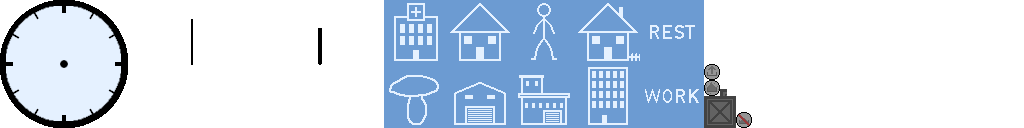
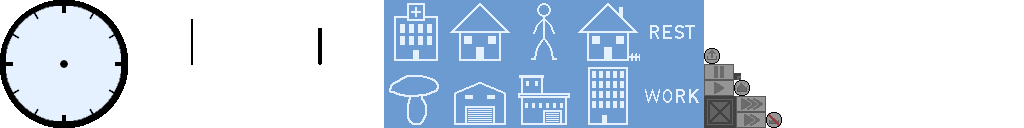
tick speed buttons

Changed region(s): [[0.6875, 0.375, 0.7812, 1.0]]

diff --git a/core/src/com/boxhead/builder/ui/UI.java b/core/src/com/boxhead/builder/ui/UI.java
@@ -5,6 +5,7 @@ import com.badlogic.gdx.graphics.Color;
 import com.badlogic.gdx.graphics.g2d.BitmapFont;
 import com.badlogic.gdx.graphics.g2d.SpriteBatch;
 import com.badlogic.gdx.graphics.g2d.TextureRegion;
+import com.boxhead.builder.Logic;
 import com.boxhead.builder.Textures;
 import com.boxhead.builder.World;
 import com.boxhead.builder.game_objects.Building;
@@ -26,8 +27,9 @@ public class UI {
 
     private static final List<Set<UIElement>> layers = new ArrayList<>();
 
-    private static Button buildingButton, npcButton, homeButton, workplaceButton, serviceButton, storageButton, constructionOfficeButton, workButton, restButton;
-    private static ButtonGroup buildingMenu, mainMenu;
+    private static Button buildingButton, npcButton, homeButton, workplaceButton, serviceButton, storageButton, constructionOfficeButton, workButton, restButton,
+                          pauseButton, playButton, x2Button, x3Button;
+    private static ButtonGroup buildingMenu, mainMenu, timeButtons;
 
     private static NPCStatWindow NPCStatWindow;
     private static BuildingStatWindow buildingStatWindow;
@@ -36,6 +38,7 @@ public class UI {
     private static Clock clock;
 
     public static void init() {
+        //region mainMenu
         buildingButton = new Button(Textures.get(Textures.Ui.HOUSE), new Vector2i(10, 10),
                 () -> buildingMenu.setVisible(!buildingMenu.isVisible()));
         npcButton = new Button(Textures.get(Textures.Ui.NPC), new Vector2i(84, 10),
@@ -48,7 +51,9 @@ public class UI {
                 () -> World.setTime(25170));
         restButton = new Button(Textures.get(Textures.Ui.REST), new Vector2i(232, 10),
                 () -> World.setTime(57570));
+        //endregion
 
+        //region buildingMenu
         homeButton = new Button(Textures.get(Textures.Ui.HOME), new Vector2i(10, 84),
                 () -> {
                     Buildings.toBuildingMode(Buildings.Type.DEFAULT_RESIDENTIAL_BUILDING);
@@ -74,22 +79,47 @@ public class UI {
                     Buildings.toBuildingMode(Buildings.Type.CONSTRUCTION_OFFICE);
                     buildingMenu.setVisible(false);
                 });
+        //endregion
+
+        TextureRegion clockTexture = Textures.get(Textures.Ui.CLOCK_FACE);
+        clock = new Clock(new Vector2i(Gdx.graphics.getWidth() - clockTexture.getRegionWidth() - 10,
+                Gdx.graphics.getHeight() - clockTexture.getRegionHeight() - 10));
+
+        //region timeButtons
+        pauseButton = new Button(Textures.get(Textures.Ui.PAUSE),
+                new Vector2i(Gdx.graphics.getWidth() - clockTexture.getRegionWidth() - 9,
+                        Gdx.graphics.getHeight() - clockTexture.getRegionHeight() - 36),
+                () -> Logic.setTickSpeed(0));
+
+        playButton = new Button(Textures.get(Textures.Ui.PLAY),
+                new Vector2i(Gdx.graphics.getWidth() - clockTexture.getRegionWidth() + 23,
+                        Gdx.graphics.getHeight() - clockTexture.getRegionHeight() - 36),
+                () -> Logic.setTickSpeed(Logic.NORMAL_SPEED));
+
+        x2Button = new Button(Textures.get(Textures.Ui.X2SPEED),
+                new Vector2i(Gdx.graphics.getWidth() - clockTexture.getRegionWidth() + 55,
+                        Gdx.graphics.getHeight() - clockTexture.getRegionHeight() - 36),
+                () -> Logic.setTickSpeed(Logic.SPEED_X2));
+
+        x3Button= new Button(Textures.get(Textures.Ui.X3SPEED),
+                new Vector2i(Gdx.graphics.getWidth() - clockTexture.getRegionWidth() + 87,
+                        Gdx.graphics.getHeight() - clockTexture.getRegionHeight() - 36),
+                () -> Logic.setTickSpeed(Logic.SPEED_X3));
+        //endregion
 
         mainMenu = new ButtonGroup(null, new Vector2i(), buildingButton, npcButton, workButton, restButton);
         buildingMenu = new ButtonGroup(null, new Vector2i(), homeButton, workplaceButton, serviceButton, storageButton, constructionOfficeButton);
+        timeButtons = new ButtonGroup(null, new Vector2i(), pauseButton, playButton, x2Button, x3Button);
 
         NPCStatWindow = new NPCStatWindow();
         buildingStatWindow = new BuildingStatWindow();
 
         resourceList = new ResourceList();
 
-        TextureRegion clockTexture = Textures.get(Textures.Ui.CLOCK_FACE);
-        clock = new Clock(new Vector2i(Gdx.graphics.getWidth() - clockTexture.getRegionWidth() - 10,
-                Gdx.graphics.getHeight() - clockTexture.getRegionHeight() - 10));
-
         mainMenu.setVisible(true);
+        timeButtons.setVisible(true);
 
-        layers.add(new HashSet<>(Arrays.asList(mainMenu, buildingMenu, clock, resourceList)));
+        layers.add(new HashSet<>(Arrays.asList(mainMenu, buildingMenu, clock, timeButtons, resourceList)));
         layers.add(new HashSet<>(Arrays.asList(NPCStatWindow, buildingStatWindow)));
     }
 

diff --git a/core/src/com/boxhead/builder/Logic.java b/core/src/com/boxhead/builder/Logic.java
@@ -5,6 +5,10 @@ import com.boxhead.builder.game_objects.*;
 
 public class Logic {
 
+    public static final float NORMAL_SPEED = .005f;
+    public static final float SPEED_X2 = .0025f;
+    public static final float SPEED_X3 = .00125f;
+
     private static final Timer.Task task = new Timer.Task() {
         @Override
         public void run() {
@@ -62,5 +66,19 @@ public class Logic {
             npc.seekJob();  //todo make these into orders
             npc.seekHouse();
         }
+    }
+
+    public static void init() {
+        Timer.instance().scheduleTask(task, 0, NORMAL_SPEED);
+    }
+
+    public static void setTickSpeed(float tickSpeed) {
+        if(tickSpeed == 0) {
+            Timer.instance().stop();
+            return;
+        }
+        Timer.instance().clear();
+        Timer.instance().scheduleTask(task, 0, tickSpeed);
+        Timer.instance().start();
     }
 }

diff --git a/core/src/com/boxhead/builder/Textures.java b/core/src/com/boxhead/builder/Textures.java
@@ -67,7 +67,8 @@ public class Textures {
     }
 
     public enum Ui implements TextureId {
-        CLOCK_FACE, CLOSE_BUTTON, FUNGUS, HOME, HOUR_HAND, HOUSE, MINUTE_HAND, NPC, SERVICE, WORKPLACE, NO_STORAGE, FULL_STORAGE, NO_RESOURCES, WORK, REST, STORAGE, CONSTRUCTION_OFFICE, WINDOW
+        CLOCK_FACE, CLOSE_BUTTON, FUNGUS, HOME, HOUR_HAND, HOUSE, MINUTE_HAND, NPC, SERVICE, WORKPLACE, NO_STORAGE, FULL_STORAGE, NO_RESOURCES, WORK, REST, STORAGE, CONSTRUCTION_OFFICE, WINDOW,
+        PAUSE, PLAY, X2SPEED, X3SPEED
     }
 
     public enum Resource implements TextureId {

diff --git a/core/src/com/boxhead/builder/GameScreen.java b/core/src/com/boxhead/builder/GameScreen.java
@@ -38,8 +38,9 @@ public class GameScreen extends InputAdapter implements Screen {
         Textures.init();
         World.init(new Vector2i(101, 101));
         UI.init();
+        Logic.init();
 
-        Timer.schedule(Logic.getTask(), 0, .005f);
+        //Timer.schedule(Logic.getTask(), 0, Logic.getTickSpeed());
 
         camera.position.set((float) World.getWidth() / 2, (float) World.getHeight() / 2, camera.position.z);
         camera.update();

diff --git a/core/src/com/boxhead/builder/ui/Button.java b/core/src/com/boxhead/builder/ui/Button.java
@@ -15,6 +15,11 @@ public class Button extends UIElement implements Clickable {
         this.onClick = onClick;
     }
 
+    public Button(TextureRegion texture, Vector2i position, OnClick onClick, boolean visible) {
+        super(texture, position, visible);
+        this.onClick = onClick;
+    }
+
     @Override
     public boolean isClicked() {
         return Gdx.input.isButtonJustPressed(Input.Buttons.LEFT) && isMouseOnButton();
